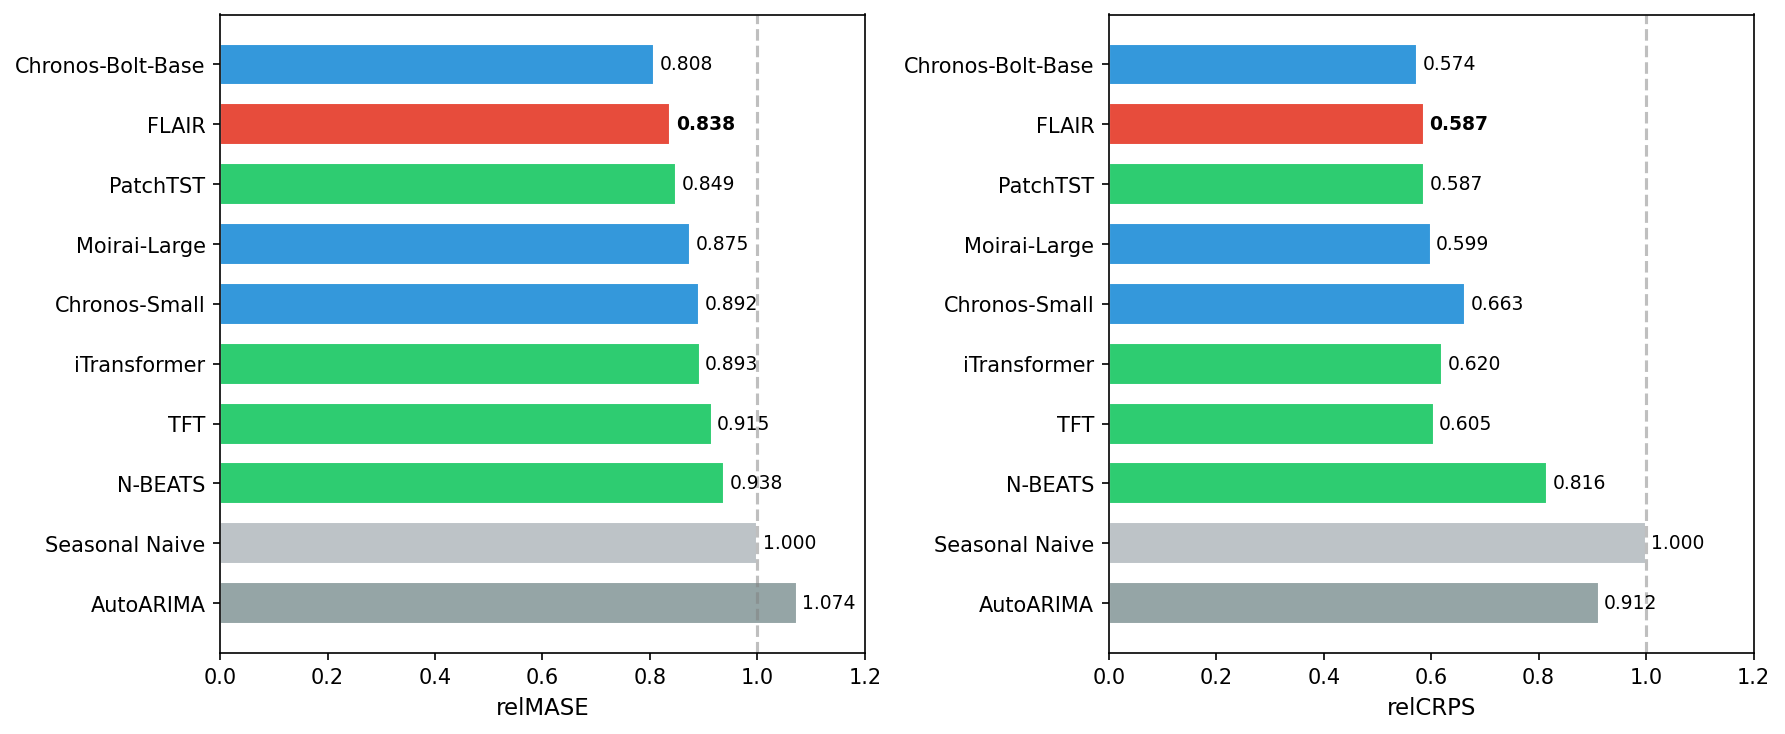
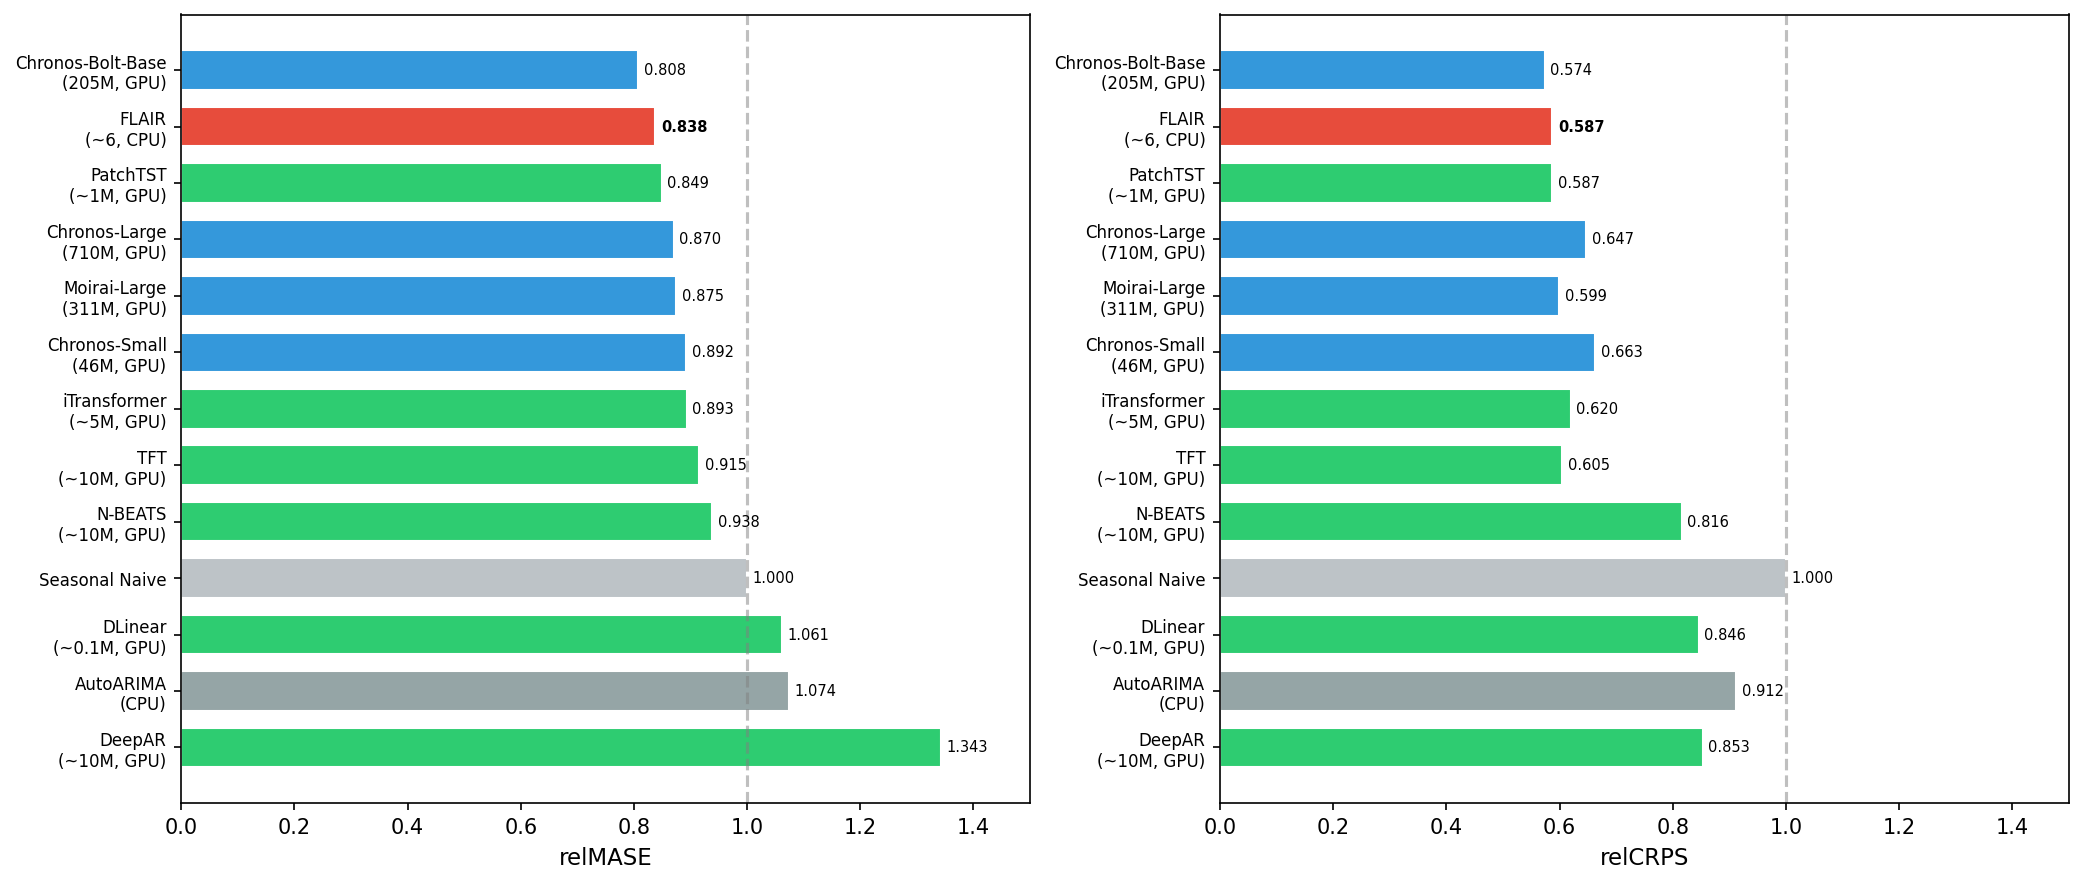
docs: expand GIFT-Eval table with DLinear, DeepAR, Chronos-Large, AutoTheta, Prophet

diff --git a/README.md b/README.md
@@ -149,17 +149,23 @@ Baseline results from [autogluon/fev](https://github.com/autogluon/fev) and [ama
   <img src="assets/fig_benchmark.png" alt="GIFT-Eval Benchmark" width="100%">
 </p>
 
-| Model | Type | relMASE | relCRPS | GPU |
-|-------|------|:-------:|:-------:|:---:|
-| Chronos-Bolt-Base | Foundation | 0.808 | 0.574 | Yes |
-| **FLAIR** | **Statistical** | **0.838** | **0.587** | **No** |
-| PatchTST | Deep Learning | 0.849 | 0.587 | Yes |
-| Moirai-large | Foundation | 0.875 | 0.599 | Yes |
-| iTransformer | Deep Learning | 0.893 | 0.620 | Yes |
-| TFT | Deep Learning | 0.915 | 0.605 | Yes |
-| N-BEATS | Deep Learning | 0.938 | 0.816 | Yes |
-| SeasonalNaive | Baseline | 1.000 | 1.000 | No |
-| AutoARIMA | Statistical | 1.074 | 0.912 | No |
+| Model | Type | relMASE | relCRPS | Params | GPU |
+|-------|------|:-------:|:-------:|:------:|:---:|
+| Chronos-Bolt-Base | Foundation | 0.808 | 0.574 | 205M | Yes |
+| **FLAIR** | **Statistical** | **0.838** | **0.587** | **~6** | **No** |
+| PatchTST | Deep Learning | 0.849 | 0.587 | ~1M | Yes |
+| Chronos-Large | Foundation | 0.870 | 0.647 | 710M | Yes |
+| Moirai-Large | Foundation | 0.875 | 0.599 | 311M | Yes |
+| Chronos-Small | Foundation | 0.892 | 0.663 | 46M | Yes |
+| iTransformer | Deep Learning | 0.893 | 0.620 | ~5M | Yes |
+| TFT | Deep Learning | 0.915 | 0.605 | ~10M | Yes |
+| N-BEATS | Deep Learning | 0.938 | 0.816 | ~10M | Yes |
+| Seasonal Naive | Baseline | 1.000 | 1.000 | 0 | No |
+| DLinear | Deep Learning | 1.061 | 0.846 | ~0.1M | Yes |
+| AutoARIMA | Statistical | 1.074 | 0.912 | ~5 | No |
+| AutoTheta | Statistical | 1.090 | 1.244 | ~5 | No |
+| DeepAR | Deep Learning | 1.343 | 0.853 | ~10M | Yes |
+| Prophet | Statistical | 1.540 | 1.061 | ~20 | No |
 
 ### Long-term Forecasting (8 datasets)
 